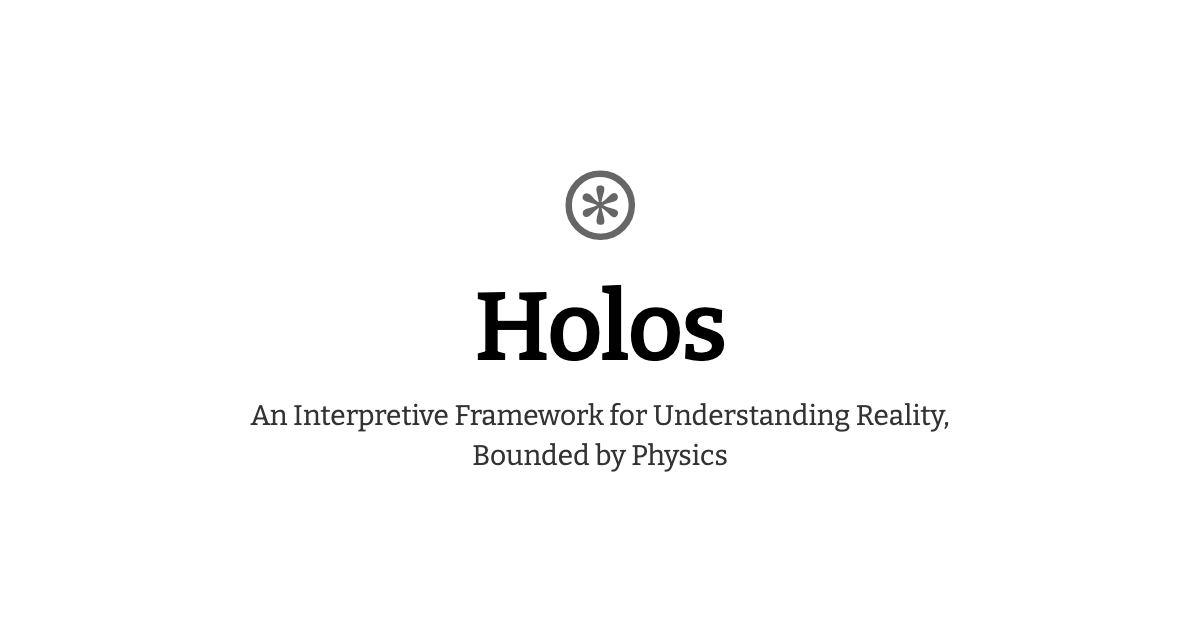
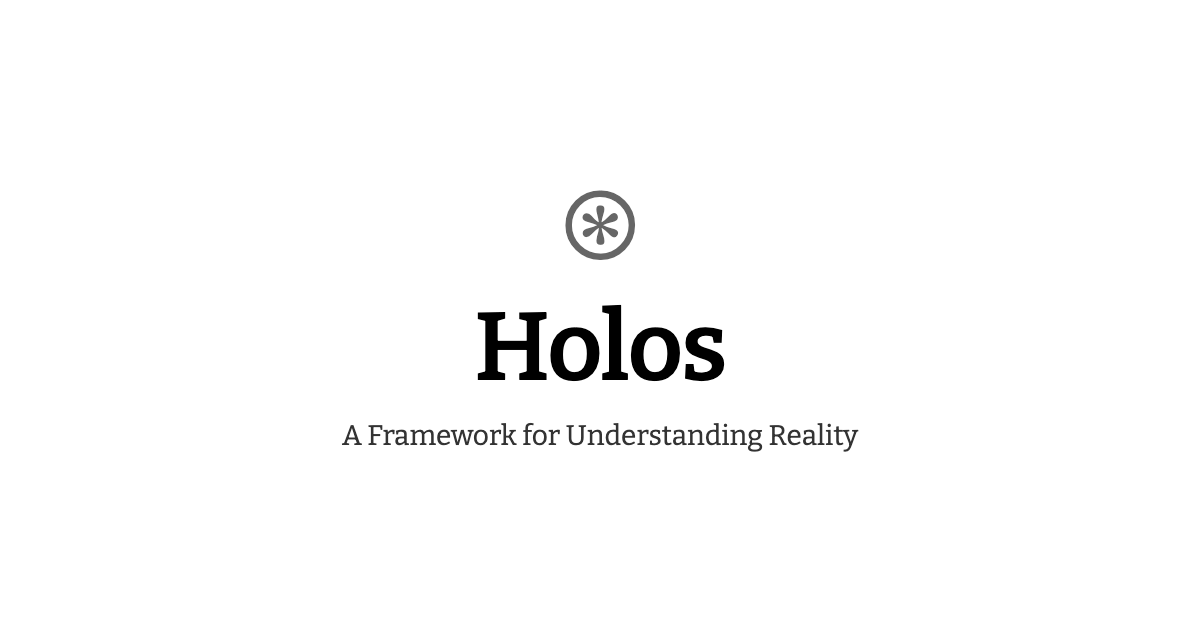
Shorten title to Holos: A Framework for Understanding Reality

Changed region(s): [[0.2158, 0.6333, 0.8017, 0.754], [0.4008, 0.4524, 0.6167, 0.6032], [0.4625, 0.2714, 0.555, 0.4222]]

diff --git a/app/layout.tsx b/app/layout.tsx
@@ -17,7 +17,7 @@ const fell = IM_Fell_English({
 const siteUrl = process.env.NEXT_PUBLIC_SITE_URL || "https://whatisholos.vercel.app";
 
 export const metadata: Metadata = {
-  title: "Holos: An Interpretive Framework for Understanding Reality, Bounded by Physics",
+  title: "Holos: A Framework for Understanding Reality",
   description:
     "Holos is an interpretive framework proposing that the universe physics describes is lived wherever a sufficiently integrated system, an observer, takes it in. It examines consciousness, spacetime, cosmology, and meaning within known physics.",
   icons: {
@@ -27,17 +27,17 @@ export const metadata: Metadata = {
     canonical: siteUrl,
   },
   openGraph: {
-    title: "Holos: An Interpretive Framework for Understanding Reality, Bounded by Physics",
+    title: "Holos: A Framework for Understanding Reality",
     description:
       "Holos is an interpretive framework proposing that the universe physics describes is lived wherever a sufficiently integrated system, an observer, takes it in. It examines consciousness, spacetime, cosmology, and meaning within known physics.",
     url: siteUrl,
-    siteName: "Holos: An Interpretive Framework for Understanding Reality, Bounded by Physics",
+    siteName: "Holos: A Framework for Understanding Reality",
     images: [
       {
         url: "/opengraph-image.png",
         width: 1200,
         height: 630,
-        alt: "Holos: An Interpretive Framework for Understanding Reality, Bounded by Physics",
+        alt: "Holos: A Framework for Understanding Reality",
       },
     ],
     locale: "en_US",
@@ -45,7 +45,7 @@ export const metadata: Metadata = {
   },
   twitter: {
     card: "summary_large_image",
-    title: "Holos: An Interpretive Framework for Understanding Reality, Bounded by Physics",
+    title: "Holos: A Framework for Understanding Reality",
     description:
       "Holos is an interpretive framework proposing that the universe physics describes is lived wherever a sufficiently integrated system, an observer, takes it in. It examines consciousness, spacetime, cosmology, and meaning within known physics.",
     images: ["/twitter-image.png"],
@@ -55,7 +55,7 @@ export const metadata: Metadata = {
 const jsonLd = {
   "@context": "https://schema.org",
   "@type": "Article",
-  headline: "Holos: An Interpretive Framework for Understanding Reality, Bounded by Physics",
+  headline: "Holos: A Framework for Understanding Reality",
   description:
     "Holos is an interpretive framework proposing that the universe physics describes is lived wherever a sufficiently integrated system, an observer, takes it in. It examines consciousness, spacetime, cosmology, and meaning within known physics.",
   author: {

diff --git a/app/_components/PDFDocument.tsx b/app/_components/PDFDocument.tsx
@@ -11,7 +11,7 @@ export default function PDFDocument() {
       <head>
         <meta charSet="utf-8" />
         <title>
-          Holos: An Interpretive Framework for Understanding Reality, Bounded by Physics
+          Holos: A Framework for Understanding Reality
         </title>
         <style>{`
           @font-face {
@@ -312,7 +312,7 @@ export default function PDFDocument() {
               <span>Holos</span>
             </div>
             <h1 className="title-main">
-              Holos: An Interpretive Framework for Understanding Reality, Bounded by Physics
+              Holos: A Framework for Understanding Reality
             </h1>
           </div>
         </div>

diff --git a/app/predictions/page.tsx b/app/predictions/page.tsx
@@ -14,7 +14,7 @@ export const metadata: Metadata = {
     description:
       "What Holos predicts and how it could fail: its core commitments, the patterns it expects in neuroscience and quantum experiments, a standing falsifiable bet, and long-range speculation.",
     url: `${process.env.NEXT_PUBLIC_SITE_URL || "https://whatisholos.vercel.app"}/predictions`,
-    siteName: "Holos: An Interpretive Framework for Understanding Reality, Bounded by Physics",
+    siteName: "Holos: A Framework for Understanding Reality",
     type: "website",
   },
 };

diff --git a/app/logic/page.tsx b/app/logic/page.tsx
@@ -14,7 +14,7 @@ export const metadata: Metadata = {
     description:
       "A formal mathematical and philosophical structure defining Holos (⊛) through primitive definitions, axioms, and foundational propositions.",
     url: `${process.env.NEXT_PUBLIC_SITE_URL || "https://whatisholos.vercel.app"}/logic`,
-    siteName: "Holos: An Interpretive Framework for Understanding Reality, Bounded by Physics",
+    siteName: "Holos: A Framework for Understanding Reality",
     type: "website",
   },
 };

diff --git a/app/_components/Header.tsx b/app/_components/Header.tsx
@@ -11,7 +11,7 @@ export default function Header() {
         className="xl:hidden w-4 h-4 lg:w-5 lg:h-5 opacity-60 relative -top-2"
       />
       <h1 className="text-center text-balance scale-[0.8] sm:scale-90 md:scale-100 -ml-2 xl:ml-0 xl:text-left text-3xl lg:text-4xl xl:text-5xl font-extralight xl:font-thin">
-        Holos: An Interpretive Framework for Understanding Reality, Bounded by Physics
+        Holos: A Framework for Understanding Reality
       </h1>
     </header>
   );

diff --git a/app/citations/page.tsx b/app/citations/page.tsx
@@ -13,7 +13,7 @@ export const metadata: Metadata = {
     title: "Citations – Holos (⊛)",
     description: "Citations and references for the Holos interpretive framework.",
     url: `${process.env.NEXT_PUBLIC_SITE_URL || "https://whatisholos.vercel.app"}/citations`,
-    siteName: "Holos: An Interpretive Framework for Understanding Reality, Bounded by Physics",
+    siteName: "Holos: A Framework for Understanding Reality",
     type: "website",
   },
 };

diff --git a/app/revisions/page.tsx b/app/revisions/page.tsx
@@ -15,7 +15,7 @@ export const metadata: Metadata = {
     description:
       "Claims that earlier versions of Holos made and later retired or replaced, each with the reason.",
     url: `${process.env.NEXT_PUBLIC_SITE_URL || "https://whatisholos.vercel.app"}/revisions`,
-    siteName: "Holos: An Interpretive Framework for Understanding Reality, Bounded by Physics",
+    siteName: "Holos: A Framework for Understanding Reality",
     type: "website",
   },
 };

diff --git a/app/lab/redesign/4/page.tsx b/app/lab/redesign/4/page.tsx
@@ -92,7 +92,7 @@ export default function LedgerHome() {
           <span className="r4-poster-rule" aria-hidden="true" />
           <span className="r4-sr">: </span>
           <span className="r4-poster-sub" data-intro>
-            An Interpretive Framework for Understanding Reality, Bounded by Physics
+            A Framework for Understanding Reality
           </span>
         </h1>
         <p className="r4-poster-eq" data-intro>

diff --git a/app/lab/redesign/3/page.tsx b/app/lab/redesign/3/page.tsx
@@ -119,7 +119,7 @@ export default function AtlasHome() {
             </span>
             <span className="r3-sr">: </span>
             <span className="r3-subtitle" data-intro data-sub>
-              An Interpretive Framework for Understanding Reality, Bounded by Physics
+              A Framework for Understanding Reality
             </span>
           </h1>
           <p className="r3-cover-eq" data-intro data-rise>

diff --git a/app/lab/redesign/2/_components/Hero.tsx b/app/lab/redesign/2/_components/Hero.tsx
@@ -269,7 +269,7 @@ export default function Hero({ minutes, count }: { minutes: number; count: numbe
             </span>
             <span className="n-sr">: </span>
             <span className="n-h1-sub" data-intro>
-              An Interpretive Framework for Understanding Reality, Bounded by Physics
+              A Framework for Understanding Reality
             </span>
           </h1>
         </div>

diff --git a/app/lab/redesign/1/page.tsx b/app/lab/redesign/1/page.tsx
@@ -44,8 +44,7 @@ export default function MonographOverview() {
         titleAfter={<span className="r1-sr">: </span>}
         sub={
           <>
-            An Interpretive Framework for Understanding Reality,
-            <br /> Bounded by Physics
+            A Framework for Understanding Reality
           </>
         }
         footLeft={<span className="r1-eq">R = C ⊛ O</span>}

diff --git a/scripts/generate-images.ts b/scripts/generate-images.ts
@@ -70,7 +70,7 @@ async function generateImages() {
         <body>
           <div class="symbol">⊛</div>
           <div class="holos-text">Holos</div>
-          <div class="subtitle">An Interpretive Framework for Understanding Reality,<br />Bounded by Physics</div>
+          <div class="subtitle">A Framework for Understanding Reality</div>
         </body>
       </html>
     `;
